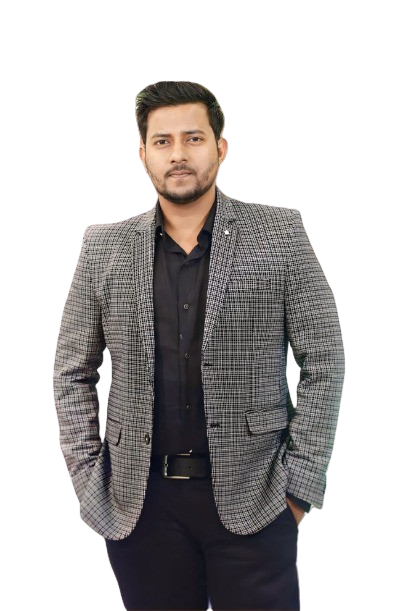
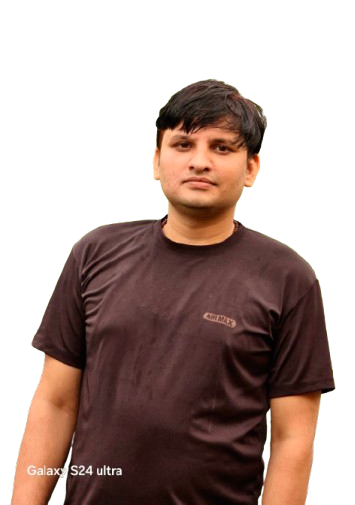
bug fixes

diff --git a/src/components/Header.jsx b/src/components/Header.jsx
@@ -13,7 +13,7 @@ const Header = () => {
         data-aos-easing='ease-in-out'
       >
         <span className='text-lg font-bold text-orange-700'>
-          {/* FULL-STACK DEVELOPER */}
+          FULL-STACK DEVELOPER
         </span>
         <div className='flex gap-4 items-center my-4'>
           <h1 className='text-gray-800 dark:text-neutral-100  md:text-5xl 2xl:text-7xl font-bold text-center'>
@@ -28,8 +28,8 @@ const Header = () => {
         <TypeAnimation
       sequence={[
         "I'm Abhishek Pandey", 2000,
-        "I'm Software Developer" ,
-        2000,
+        // "I'm Software Developer" ,
+        // 2000,
         "I'm Front-End Developer" ,
         2000,
       ]}
@@ -64,7 +64,7 @@ const Header = () => {
       <div className='w-full flex-1 flex justify-center'>
         <div className='w-[300px] h-[290px] md:w-[400px] md:h-[400px] 2xl:w-[500px] 2xl:h-[500px]  border rounded-full border-gray-600 dark:border-gray-200 relative  md:mt-20 lg:mt-0 flex items-center justify-center'>
           <img
-            src={Reactjs}
+            src={Profile}
             alt="img"
             className='w-auto h-full absolute -top-5 md:-top-10'
             data-aos='fade-down'

diff --git a/src/components/About.jsx b/src/components/About.jsx
@@ -1,5 +1,5 @@
 import React from "react";
-import { Reactjs } from "../assets";
+import { Profile } from "../assets";
 import { FaUserAlt } from "react-icons/fa";
 import { MdOutlineAlternateEmail, MdWifiCalling2 } from "react-icons/md";
 import { BsWhatsapp } from "react-icons/bs";
@@ -9,7 +9,7 @@ const About = () => {
     <div className='w-full flex flex-col lg:flex-row px-8 md:px-10 gap-10 lg:gap-20 lg:py-20 '>
       <div className='w-full md:h-[290px] lg:w-1/3 flex flex-col items-center border border-gray-500 dark:bg-transparent rounded-md'>
         <img
-          src={Reactjs}
+          src={Profile}
           alt="img"
           className='h-[290px] p-1 rounded-md ease-in-out duration-300 hover:scale-125'
         />
